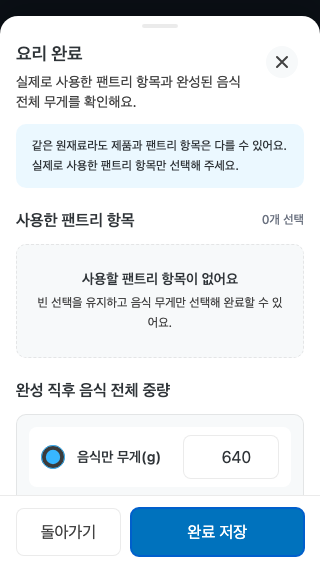
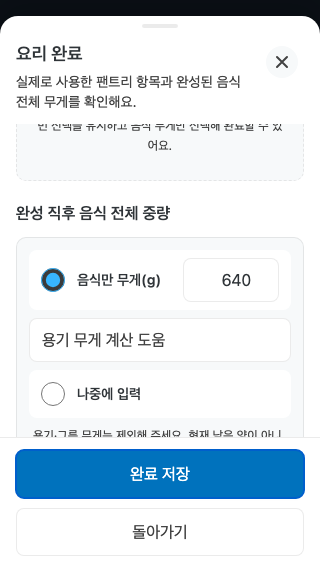
test(cooked-batch): prove repaired footer contracts at runtime
Refresh the affected deterministic browser evidence for the Stage 5 P2 repairs and record computed DOM order, geometry, typography, destructive color, pending lock, and viewport containment without changing product code or unrelated baselines.

Constraint: Manifest implementation lineage must remain locked to repair head a381f23237c001b232172317a948770d0efa364b and tree 0f72334bdebeeb4e5930858aa781050b7391b91d.
Rejected: Commit a full regenerated evidence bundle | unrelated baseline pixels are outside this repair proof and were restored from the recoverable backup.
Confidence: high
Scope-risk: narrow
Reversibility: clean
Directive: Keep PR #1323 Draft and require a fresh independent Stage 5 rereview before final authority or Stage 6.
Tested: 7 focused Vitest files / 21 tests; canonical Playwright evidence 2 pass / 2 intended skip; typecheck; focused ESLint; workpack, automation, and Draft authority validators; manifest exact-file validation; original-size PNG inspection.
Not-tested: Physical keyboard, VoiceOver/TalkBack, real virtual keyboard/device safe area, full WCAG, real permission accounts, production, remote DB, or activation.

diff --git a/tests/e2e/slice-cooked-batch-weight-ui-evidence.spec.ts b/tests/e2e/slice-cooked-batch-weight-ui-evidence.spec.ts
@@ -127,13 +127,23 @@ async function installCookedBatchRoutes(page: Page, items = primaryBatches) {
   });
 }
 
-async function installCompletionRoutes(page: Page, conflictOnce = false) {
+async function installCompletionRoutes(
+  page: Page,
+  { conflictOnce = false, pauseFirstAttempt = false } = {},
+) {
   let attempts = 0;
+  let releaseFirstAttempt: () => void = () => undefined;
+  const firstAttemptGate = pauseFirstAttempt
+    ? new Promise<void>((resolveAttempt) => {
+        releaseFirstAttempt = resolveAttempt;
+      })
+    : Promise.resolve();
   await page.route("**/api/v1/cooking/session-attempts/*/cook-mode", async (route) => {
     await route.fulfill({ json: { success: true, data: snapshot, error: null } });
   });
   await page.route("**/api/v1/cooking/session-attempts/*/complete", async (route) => {
     attempts += 1;
+    if (attempts === 1) await firstAttemptGate;
     if (conflictOnce && attempts === 1) {
       await route.fulfill({
         status: 409,
@@ -163,6 +173,7 @@ async function installCompletionRoutes(page: Page, conflictOnce = false) {
       },
     });
   });
+  return { releaseFirstAttempt };
 }
 
 async function assertNoHorizontalOverflow(page: Page) {
@@ -180,6 +191,43 @@ async function stabilize(page: Page) {
   await page.waitForLoadState("networkidle");
   await page.evaluate(() => document.fonts.ready);
   await page.addStyleTag({ content: "*,*::before,*::after{animation:none!important;transition:none!important;caret-color:transparent!important}nextjs-portal,[data-next-badge-root],[aria-label='Open Next.js Dev Tools']{display:none!important}" });
+}
+
+async function readFooterMetrics(page: Page, testId: string) {
+  return page.getByTestId(testId).evaluate((root) => {
+    const buttons = [...root.querySelectorAll("button")];
+    const layout = buttons[0]?.parentElement;
+    if (!layout || buttons.length !== 2) throw new Error("Expected exactly two footer buttons");
+    const rects = buttons.map((button) => button.getBoundingClientRect());
+    const dangerProbe = document.createElement("span");
+    dangerProbe.style.backgroundColor = "var(--danger-strong)";
+    root.appendChild(dangerProbe);
+    const dangerBackground = getComputedStyle(dangerProbe).backgroundColor;
+    dangerProbe.remove();
+    return {
+      backgrounds: buttons.map((button) => getComputedStyle(button).backgroundColor),
+      dangerBackground,
+      flexDirection: getComputedStyle(layout).flexDirection,
+      fontSizes: buttons.map((button) => Number.parseFloat(getComputedStyle(button).fontSize)),
+      bottoms: rects.map(({ bottom }) => Math.round(bottom)),
+      heights: rects.map(({ height }) => Math.round(height)),
+      labels: buttons.map((button) => button.textContent?.trim() ?? ""),
+      lefts: rects.map(({ left }) => Math.round(left)),
+      rights: rects.map(({ right }) => Math.round(right)),
+      tops: rects.map(({ top }) => Math.round(top)),
+      viewport: { height: window.innerHeight, width: window.innerWidth },
+      widths: rects.map(({ width }) => Math.round(width)),
+    };
+  });
+}
+
+function maxRgbChannelDelta(left: string, right: string) {
+  const leftChannels = left.match(/[\d.]+/g)?.slice(0, 3).map(Number);
+  const rightChannels = right.match(/[\d.]+/g)?.slice(0, 3).map(Number);
+  if (!leftChannels || !rightChannels || leftChannels.length !== 3 || rightChannels.length !== 3) {
+    throw new Error(`Unable to compare computed colors: ${left} / ${right}`);
+  }
+  return Math.max(...leftChannels.map((channel, index) => Math.abs(channel - rightChannels[index])));
 }
 
 test.describe("cooked-batch-weight-ui", () => {
@@ -221,11 +269,26 @@ test("captures and verifies the Stage-4 viewport, state, and accessibility matri
   ];
   const runtime = {
     confirmationBackRetained: false,
+    cookFooter320PrimaryFirstDom: false,
+    cookFooter320PrimaryFirstVisual: false,
+    cookFooter320Stacked: false,
+    cookFooterControlHeightPx: 0,
+    cookFooterLabelsPreserved: false,
+    cookFooterPendingLocked: false,
+    cookFooterViewportContained: false,
+    cookFooterWideLayoutPreserved: [] as number[],
     existingCookModeFullPageContrastResidualNodes: 0,
     field422AlertFocused: false,
     field422InputsRetainedAndLinked: false,
     focusRestored: false,
     focusTrapped: false,
+    leftoversFooterControlHeightPx: 0,
+    leftoversFooterDestructiveColorPreserved: false,
+    leftoversFooterSafeCancelFirstDom: false,
+    leftoversFooterSafeCancelFirstVisual: false,
+    leftoversFooterTextBasePx: 0,
+    leftoversFooterViewportContained: false,
+    leftoversFooterViewports: [] as number[],
     noHorizontalOverflow: [] as number[],
     pendingControlsLocked: false,
     pendingEscapeLocked: false,
@@ -237,7 +300,10 @@ test("captures and verifies the Stage-4 viewport, state, and accessibility matri
 
   for (const [width, height, suffix] of [[390, 844, "mobile-default-390"], [320, 568, "mobile-narrow-320"], [1440, 1000, "desktop-1440"]] as const) {
     const cooked = await preparePage(browser, width, height);
-    await installCompletionRoutes(cooked.page, width === 320);
+    const completionRoute = await installCompletionRoutes(cooked.page, {
+      conflictOnce: width === 320,
+      pauseFirstAttempt: width === 320,
+    });
     await cooked.page.goto(COOK_MODE_PATH);
     const opener = cooked.page.getByRole("button", { name: "요리 완료" });
     await opener.click();
@@ -248,10 +314,38 @@ test("captures and verifies the Stage-4 viewport, state, and accessibility matri
     await dialog.getByRole("radio", { name: "음식만 무게(g)" }).click();
     await dialog.getByRole("spinbutton", { name: "완성 직후 음식 전체 중량" }).fill("640");
     const confirm = dialog.getByRole("button", { name: "완료 저장" });
+    const back = dialog.getByRole("button", { name: "돌아가기" });
     const close = dialog.getByRole("button", { name: "닫기" });
+    const cookFooter = await readFooterMetrics(cooked.page, "cooked-batch-completion-actions");
+    expect(cookFooter.labels).toEqual(["완료 저장", "돌아가기"]);
+    expect(cookFooter.heights).toEqual([48, 48]);
+    expect(cookFooter.lefts.every((left) => left >= 0)).toBe(true);
+    expect(cookFooter.rights.every((right) => right <= cookFooter.viewport.width)).toBe(true);
+    expect(cookFooter.tops.every((top) => top >= 0)).toBe(true);
+    expect(cookFooter.bottoms.every((bottom) => bottom <= cookFooter.viewport.height)).toBe(true);
+    runtime.cookFooterControlHeightPx = 48;
+    runtime.cookFooterLabelsPreserved = true;
+    runtime.cookFooterViewportContained = true;
+    if (width === 320) {
+      expect(cookFooter.flexDirection).toBe("column");
+      expect(cookFooter.tops[0]).toBeLessThan(cookFooter.tops[1]);
+      expect(cookFooter.widths[0]).toBe(cookFooter.widths[1]);
+      runtime.cookFooter320PrimaryFirstDom = true;
+      runtime.cookFooter320PrimaryFirstVisual = true;
+      runtime.cookFooter320Stacked = true;
+    } else {
+      expect(cookFooter.flexDirection).toBe("row-reverse");
+      expect(cookFooter.tops[0]).toBe(cookFooter.tops[1]);
+      expect(cookFooter.lefts[1]).toBeLessThan(cookFooter.lefts[0]);
+      runtime.cookFooterWideLayoutPreserved.push(width);
+    }
     await confirm.focus();
     await cooked.page.keyboard.press("Tab");
+    await expect(back).toBeFocused();
+    await cooked.page.keyboard.press("Tab");
     await expect(close).toBeFocused();
+    await cooked.page.keyboard.press("Shift+Tab");
+    await expect(back).toBeFocused();
     await cooked.page.keyboard.press("Shift+Tab");
     await expect(confirm).toBeFocused();
     runtime.focusTrapped = true;
@@ -294,9 +388,21 @@ test("captures and verifies the Stage-4 viewport, state, and accessibility matri
         if (request.url().includes("/complete")) keys.push(request.headers()["idempotency-key"] ?? null);
       });
       await dialog.getByRole("button", { name: "완료 저장" }).click();
+      await expect(dialog.getByRole("status")).toContainText("완료 결과를 기다리는 중");
+      await expect(dialog.getByRole("button", { name: "저장 중…" })).toBeDisabled();
+      await expect(dialog.getByRole("button", { name: "돌아가기" })).toBeDisabled();
+      await cooked.page.keyboard.press("Escape");
+      await expect(dialog).toBeVisible();
+      runtime.cookFooterPendingLocked = true;
+      completionRoute.releaseFirstAttempt();
       const alert = dialog.getByRole("alert");
       await expect(alert).toBeFocused();
       await expect(dialog.getByRole("spinbutton", { name: "완성 직후 음식 전체 중량" })).toHaveValue("640");
+      const errorFooter = await readFooterMetrics(cooked.page, "cooked-batch-completion-actions");
+      expect(errorFooter.labels).toEqual(["완료 저장", "돌아가기"]);
+      expect(errorFooter.heights).toEqual([48, 48]);
+      expect(errorFooter.tops[0]).toBeLessThan(errorFooter.tops[1]);
+      expect(errorFooter.bottoms.every((bottom) => bottom <= errorFooter.viewport.height)).toBe(true);
       const errorName = "COOK_MODE-mobile-narrow-320-pending-error-replay.png";
       await cooked.page.screenshot({ path: resolve(EVIDENCE_DIR, errorName) });
       files.push(errorName);
@@ -329,6 +435,21 @@ test("captures and verifies the Stage-4 viewport, state, and accessibility matri
       await expect(closeDialog.getByText("식사 영양을 계산하지 않아요.")).toBeVisible();
       await expect(closeDialog.getByText("meal-log 식사 기록을 만들지 않아요.")).toBeVisible();
       await closeDialog.getByRole("checkbox", { name: /그램 중량.*식사 영양.*meal-log 식사 기록/ }).check();
+      const leftoversFooter = await readFooterMetrics(leftovers.page, "cooked-batch-action-actions");
+      expect(leftoversFooter.labels).toEqual(["취소", "이 상태로 종료"]);
+      expect(leftoversFooter.fontSizes).toEqual([16, 16]);
+      expect(leftoversFooter.heights).toEqual([48, 48]);
+      expect(leftoversFooter.bottoms.every((bottom) => bottom <= leftoversFooter.viewport.height)).toBe(true);
+      expect(leftoversFooter.lefts[0]).toBeLessThan(leftoversFooter.lefts[1]);
+      expect(leftoversFooter.tops[0]).toBe(leftoversFooter.tops[1]);
+      expect(maxRgbChannelDelta(leftoversFooter.backgrounds[1], leftoversFooter.dangerBackground)).toBeLessThanOrEqual(1);
+      runtime.leftoversFooterControlHeightPx = 48;
+      runtime.leftoversFooterDestructiveColorPreserved = true;
+      runtime.leftoversFooterSafeCancelFirstDom = true;
+      runtime.leftoversFooterSafeCancelFirstVisual = true;
+      runtime.leftoversFooterTextBasePx = 16;
+      runtime.leftoversFooterViewportContained = true;
+      runtime.leftoversFooterViewports.push(width);
       runtime.unweighedCloseConsequencesConfirmed = true;
       runtime.scopedNewUiSeriousOrCritical += (await expectNoSeriousAxeViolations(
         leftovers.page,
@@ -395,6 +516,21 @@ test("captures and verifies the Stage-4 viewport, state, and accessibility matri
       await expect(actionDialog.getByLabel("사유")).toHaveValue("상해서 폐기");
       runtime.confirmationBackRetained = true;
       await actionDialog.getByRole("button", { name: "내용 확인" }).click();
+      const leftoversFooter = await readFooterMetrics(leftovers.page, "cooked-batch-action-actions");
+      expect(leftoversFooter.labels).toEqual(["입력 수정", "버림 기록"]);
+      expect(leftoversFooter.fontSizes).toEqual([16, 16]);
+      expect(leftoversFooter.heights).toEqual([48, 48]);
+      expect(leftoversFooter.bottoms.every((bottom) => bottom <= leftoversFooter.viewport.height)).toBe(true);
+      expect(leftoversFooter.lefts[0]).toBeLessThan(leftoversFooter.lefts[1]);
+      expect(leftoversFooter.tops[0]).toBe(leftoversFooter.tops[1]);
+      expect(maxRgbChannelDelta(leftoversFooter.backgrounds[1], leftoversFooter.dangerBackground)).toBeLessThanOrEqual(1);
+      runtime.leftoversFooterControlHeightPx = 48;
+      runtime.leftoversFooterDestructiveColorPreserved = true;
+      runtime.leftoversFooterSafeCancelFirstDom = true;
+      runtime.leftoversFooterSafeCancelFirstVisual = true;
+      runtime.leftoversFooterTextBasePx = 16;
+      runtime.leftoversFooterViewportContained = true;
+      runtime.leftoversFooterViewports.push(width);
       await stabilize(leftovers.page);
       await leftovers.page.screenshot({ path: resolve(EVIDENCE_DIR, stateName) });
       files.push(stateName);
@@ -413,6 +549,11 @@ test("captures and verifies the Stage-4 viewport, state, and accessibility matri
       await expect(retainedAmount).toHaveAttribute("aria-describedby", alertId!);
       await expect(retainedReason).toHaveAttribute("aria-describedby", alertId!);
       runtime.field422InputsRetainedAndLinked = true;
+      const leftoversErrorFooter = await readFooterMetrics(leftovers.page, "cooked-batch-action-actions");
+      expect(leftoversErrorFooter.labels).toEqual(["취소", "내용 확인"]);
+      expect(leftoversErrorFooter.fontSizes).toEqual([16, 16]);
+      expect(leftoversErrorFooter.heights).toEqual([48, 48]);
+      expect(leftoversErrorFooter.bottoms.every((bottom) => bottom <= leftoversErrorFooter.viewport.height)).toBe(true);
       runtime.scopedNewUiSeriousOrCritical += (await expectNoSeriousAxeViolations(
         leftovers.page,
         '[data-testid="cooked-batch-action-sheet"]',
@@ -473,6 +614,14 @@ test("captures and verifies the Stage-4 viewport, state, and accessibility matri
 
   expect(runtime.focusTrapped).toBe(true);
   expect(runtime.focusRestored).toBe(true);
+  expect(runtime.cookFooter320PrimaryFirstDom).toBe(true);
+  expect(runtime.cookFooter320PrimaryFirstVisual).toBe(true);
+  expect(runtime.cookFooter320Stacked).toBe(true);
+  expect(runtime.cookFooterControlHeightPx).toBe(48);
+  expect(runtime.cookFooterLabelsPreserved).toBe(true);
+  expect(runtime.cookFooterPendingLocked).toBe(true);
+  expect(runtime.cookFooterViewportContained).toBe(true);
+  expect(runtime.cookFooterWideLayoutPreserved).toEqual([390, 1440]);
   expect(runtime.confirmationBackRetained).toBe(true);
   expect(runtime.field422AlertFocused).toBe(true);
   expect(runtime.field422InputsRetainedAndLinked).toBe(true);
@@ -480,13 +629,35 @@ test("captures and verifies the Stage-4 viewport, state, and accessibility matri
   expect(runtime.pendingEscapeLocked).toBe(true);
   expect(runtime.retained409Input).toBe(true);
   expect(runtime.replayKeyReused).toBe(true);
+  expect(runtime.leftoversFooterControlHeightPx).toBe(48);
+  expect(runtime.leftoversFooterDestructiveColorPreserved).toBe(true);
+  expect(runtime.leftoversFooterSafeCancelFirstDom).toBe(true);
+  expect(runtime.leftoversFooterSafeCancelFirstVisual).toBe(true);
+  expect(runtime.leftoversFooterTextBasePx).toBe(16);
+  expect(runtime.leftoversFooterViewportContained).toBe(true);
+  expect(runtime.leftoversFooterViewports).toEqual([390, 320]);
   expect(runtime.unweighedCloseConsequencesConfirmed).toBe(true);
   await writeFile(resolve(EVIDENCE_DIR, "runtime-focus-keyboard-overflow.json"), `${JSON.stringify({
     confirmation_back_retained: runtime.confirmationBackRetained,
+    cook_footer_320_primary_first_dom: runtime.cookFooter320PrimaryFirstDom,
+    cook_footer_320_primary_first_visual: runtime.cookFooter320PrimaryFirstVisual,
+    cook_footer_320_stacked: runtime.cookFooter320Stacked,
+    cook_footer_control_height_px: runtime.cookFooterControlHeightPx,
+    cook_footer_labels_preserved: runtime.cookFooterLabelsPreserved,
+    cook_footer_pending_locked: runtime.cookFooterPendingLocked,
+    cook_footer_viewport_contained: runtime.cookFooterViewportContained,
+    cook_footer_wide_layout_preserved: runtime.cookFooterWideLayoutPreserved,
     field_422_alert_focused: runtime.field422AlertFocused,
     field_422_inputs_retained_and_linked: runtime.field422InputsRetainedAndLinked,
     focus_restored: runtime.focusRestored,
     focus_trapped: runtime.focusTrapped,
+    leftovers_footer_control_height_px: runtime.leftoversFooterControlHeightPx,
+    leftovers_footer_destructive_color_preserved: runtime.leftoversFooterDestructiveColorPreserved,
+    leftovers_footer_safe_cancel_first_dom: runtime.leftoversFooterSafeCancelFirstDom,
+    leftovers_footer_safe_cancel_first_visual: runtime.leftoversFooterSafeCancelFirstVisual,
+    leftovers_footer_text_base_px: runtime.leftoversFooterTextBasePx,
+    leftovers_footer_viewport_contained: runtime.leftoversFooterViewportContained,
+    leftovers_footer_viewports: runtime.leftoversFooterViewports,
     no_horizontal_overflow: runtime.noHorizontalOverflow,
     pending_controls_locked: runtime.pendingControlsLocked,
     pending_escape_locked: runtime.pendingEscapeLocked,
